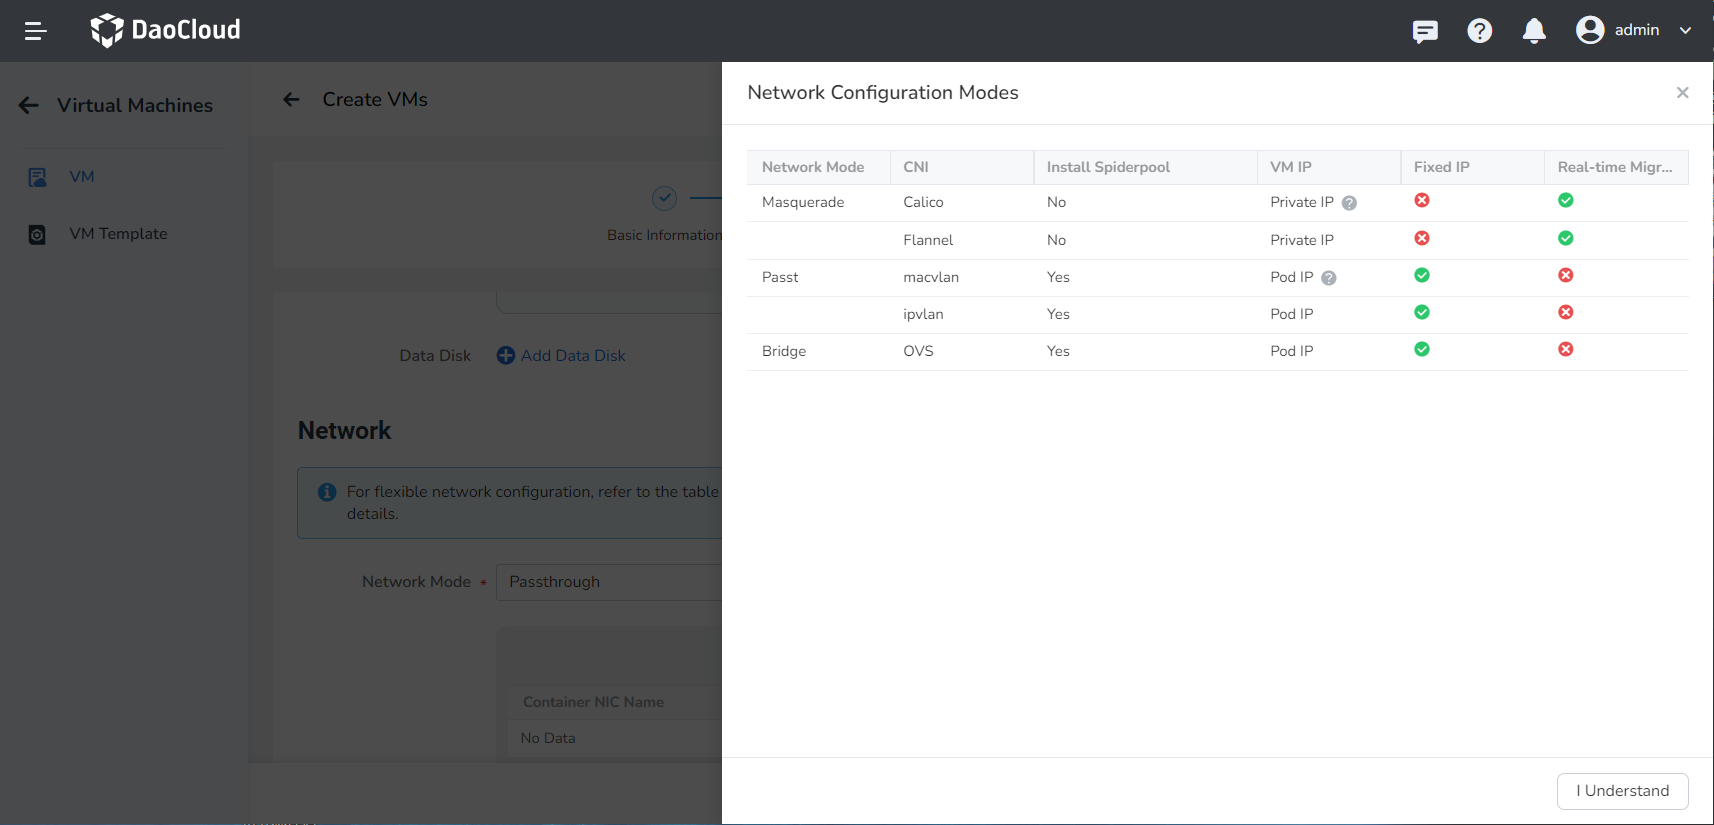
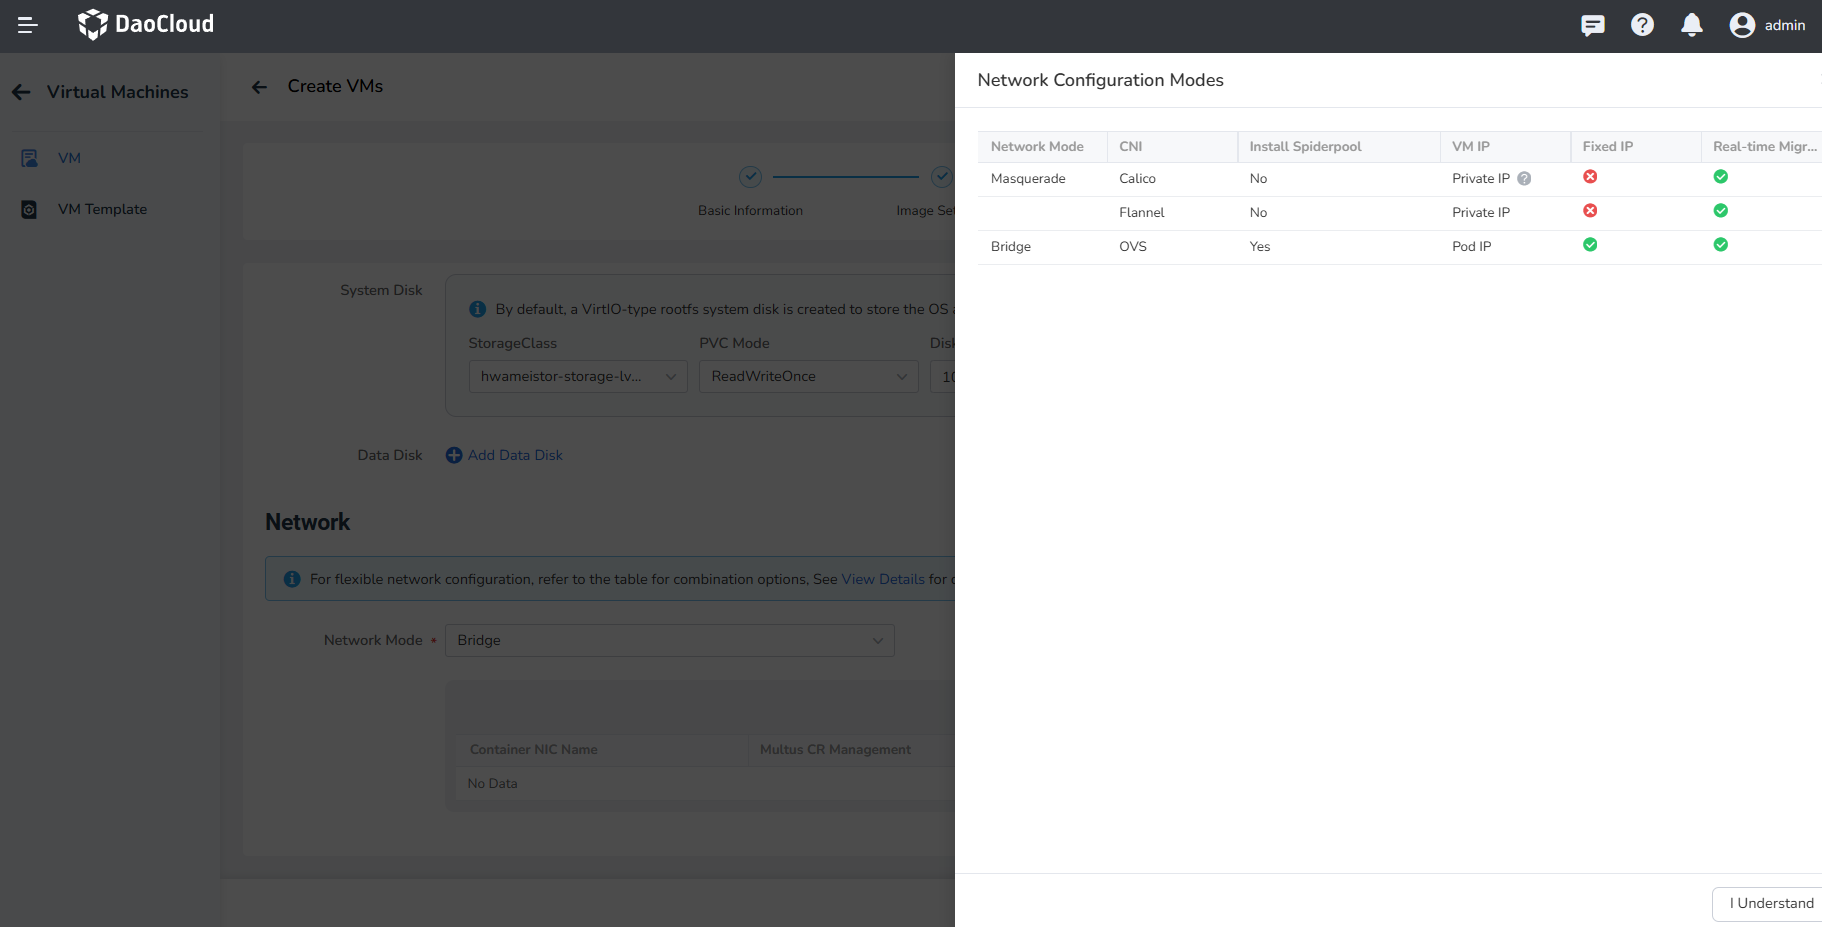
[en]update vm description and screenshots

diff --git a/docs/en/docs/virtnest/vm/vm-network.md b/docs/en/docs/virtnest/vm/vm-network.md
@@ -1,12 +1,28 @@
+---
+MTPE: ModetaNiu
+DATE: 2024-07-11
+---
+
 # Virtual Machine Networking
 
 This article will introduce how to configure network information when creating virtual machines.
 
-In virtual machines, network management is a crucial part that allows us to manage and configure network connections for virtual machines in a Kubernetes environment. It can be configured according to different needs and scenarios, achieving a more flexible and diverse network architecture.
+In virtual machines, network management is a crucial part that allows us to manage and configure network connections 
+for virtual machines in a Kubernetes environment. It can be configured according to different needs and scenarios, 
+achieving a more flexible and diverse network architecture.
 
-1. Single NIC Scenario: For simple applications that only require basic network connectivity or when there are resource constraints, using a single NIC can save network resources and prevent waste of resources.
-2. Multiple NIC Scenario: When security isolation between different network environments needs to be achieved, multiple NICs can be used to divide different network areas. It also allows for control and management of traffic.
+1. Single NIC Scenario: For simple applications that only require basic network connectivity or when there are 
+   resource constraints, using a single NIC can save network resources and prevent waste of resources.
+2. Multiple NIC Scenario: When security isolation between different network environments needs to be achieved, 
+   multiple NICs can be used to divide different network areas. It also allows for control and management of traffic.
 
+## Prerequisites
+
+1. When selecting the Bridge network mode, some information needs to be configured in advance:
+
+    - Create a Multus CR of type `ovs`. See [Creating a Multus CR](https://spidernet-io.github.io/spiderpool/v0.9/usage/install/underlay/get-started-ovs/)
+    - Create a subnet and IP pool. See [Creating Subnets and IP Pools](../../network/config/ippool/createpool.md)
+.
 ## Network Configuration
 
 1. Network configuration can be combined according to the table information.
@@ -16,31 +32,30 @@ In virtual machines, network management is a crucial part that allows us to mana
     | Masquerade (NAT)   | Calico  | ❌                   | Single NIC  | ❌               | ✅            |
     |                    | Cilium  | ❌                   | Single NIC  | ❌               | ✅            |
     |                    | Flannel | ❌                   | Single NIC  | ❌               | ✅            |
-    | Passt (Direct)     | macvlan | ✅                   | Single NIC  | ✅               | ✅           |
-    |                    | ipvlan  | ✅                   | Multiple NIC| ✅               | ✅           |
     | Bridge             | OVS     | ✅                   | Multiple NIC| ✅               | ✅           |
     
-    ![Network Configuration](../images/createvm-net01.png)
+    ![Network Config](../images/createvm-net01.png)
 
-2. Network Mode: There are three modes - Masquerade (NAT), Passt (Direct), and Bridge. The latter two modes require the installation of the spiderpool component to use.
+2. Network Mode: There are two modes - Masquerade (NAT) and Bridge. Bridge mode requires the installation of 
+   the spiderpool component.
 
     1. The default selection is Masquerade (NAT) network mode using the eth0 default NIC.
       
-    2. If the cluster has the spiderpool component installed, then Passt (Direct) / Bridge modes can be selected. The Bridge mode supports multiple NICs.
+    2. If the cluster has the spiderpool component installed, then Bridge mode can be selected. The Bridge mode 
+       supports multiple NICs.
 
         ![Network Mode](../images/createvm-net02.png)
         
-        - When selecting Passt mode, there are some prerequisites.
-           - Create macvlan or ipvlan type Multus CR. Refer to [Creating macvlan or ipvlan type Multus CR](../../network/config/multus-cr.md)
-           - Create subnets and IP pools. Refer to [Creating subnets and IP pools](../../network/config/ippool/createpool.md)
         - When selecting Bridge mode, there are some prerequisites.
            - Create ovs type Multus CR, currently cannot be created on the page. Refer to [Creating ovs type Multus CR](https://spidernet-io.github.io/spiderpool/v0.9/usage/install/underlay/get-started-ovs-zh_CN/)
            - Create subnets and IP pools similar to passt mode.
 
 3. Adding NICs
    
-    1. Passt (Direct) / Bridge modes support manually adding NICs. Click on __Add NIC__ to configure the NIC IP pool. Choose a Multus CR that matches the network mode, if not available, it needs to be created manually.
+    1. Bridge modes support manually adding NICs. Click on __Add NIC__ to configure the NIC IP pool. Choose a Multus CR 
+       that matches the network mode, if not available, it needs to be created manually.
     
-    2. If the __Use Default IP Pool__ switch is turned on, it will use the default IP pool in the multus CR configuration. If turned off, manually select the IP pool.
+    2. If the __Use Default IP Pool__ switch is turned on, it will use the default IP pool in the multus CR 
+       configuration. If turned off, manually select the IP pool.
        
         ![Add NIC](../images/createvm-net03.png)

diff --git a/docs/en/docs/virtnest/vm/index.md b/docs/en/docs/virtnest/vm/index.md
@@ -66,9 +66,7 @@ Fill in the image-related information according to the table below, then click _
 
 - Image Source: Supports three types of sources.
 
-    - Repository: Images stored in the container image repository, supporting the option
-      to enable or disable using system-built images. When enabled, you can use the platform's
-      built-in images. When disabled, you can select images from the image repository as needed.
+    - Registry: Images stored in the container registry. You can select images from the registry as needed.
     - HTTP: Images stored in a file server using the HTTP protocol, supporting both
       __HTTPS://__ and __HTTP://__ prefixes.
     - Object Storage (S3): Virtual machine images obtained through the object storage protocol (S3).
@@ -142,10 +140,10 @@ Fill in the image-related information according to the table below, then click _
     
         ![Network Configuration](../images/createvm-net01.png)
   
-    - Network modes are divided into Masquerade (NAT), Passthrough, Bridge, the latter two modes need to be installed after the spiderpool component can be used.
+    - Network modes are divided into Masquerade (NAT), Bridge, the latter mode needs to be installed after the spiderpool component can be used.
   
         - The network mode of Masquerade (NAT) is selected by default, using the default network card eth0.
-        - If the spiderpool component is installed in the cluster, you can choose the Passthrough / Bridge mode, and the Bridge mode supports the multi-network card format.
+        - If the spiderpool component is installed in the cluster, you can choose the Bridge mode, and the Bridge mode supports multiple NICs.
   
         ![Network Mode](../images/createvm-net02.png)
     

diff --git a/docs/zh/docs/virtnest/vm/vm-network.md b/docs/zh/docs/virtnest/vm/vm-network.md
@@ -27,7 +27,7 @@
     |                   | Flannel | ❌                 | 单网卡       | ❌               | ✅            |
     | Bridge（桥接）    | OVS     | ✅                 | 多网卡       | ✅               | ✅           |
     
-    ![网络配置](../images/createvm-net01.png)
+    ![网络配置](../images/createvm-net02.png)
     
 2. 网络模式：分为 Masquerade（NAT）、Bridge（桥接）两种，Bridge（桥接）模式需要安装了 spiderpool 组件后方可使用。
    
@@ -35,7 +35,7 @@
       
     2. 若集群内安装了 spiderpool 组件，则支持选择 Bridge（桥接）模式，支持多网卡形式。
 
-        ![网络模式](../images/createvm-net02.png)
+        ![网络模式](../images/createvm-net01.png)
 
         -  选择 Bridge 模式时，需要有一些前提条件。
             - 创建 ovs 类型的 Multus CR，目前页面上无法创建，可参考[创建 ovs 类型的 Multus CR](https://spidernet-io.github.io/spiderpool/v0.9/usage/install/underlay/get-started-ovs-zh_CN/)
